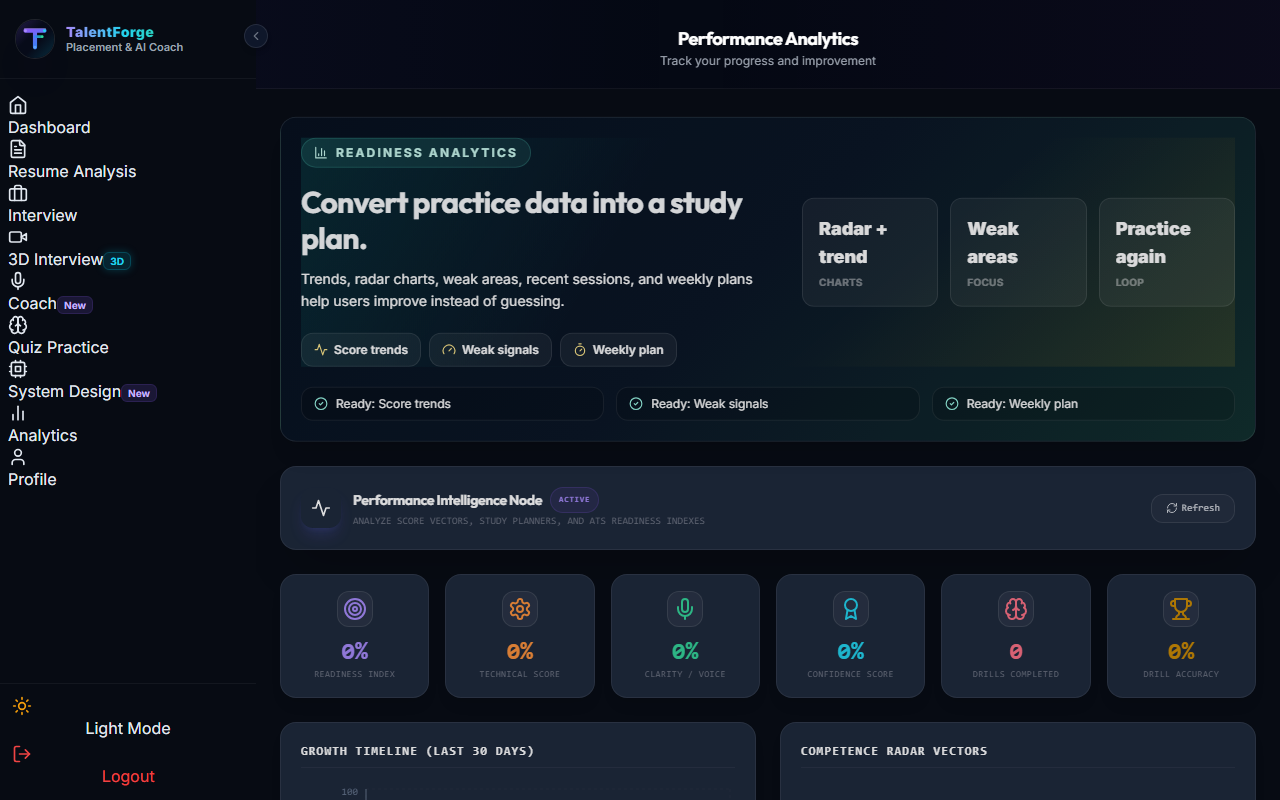
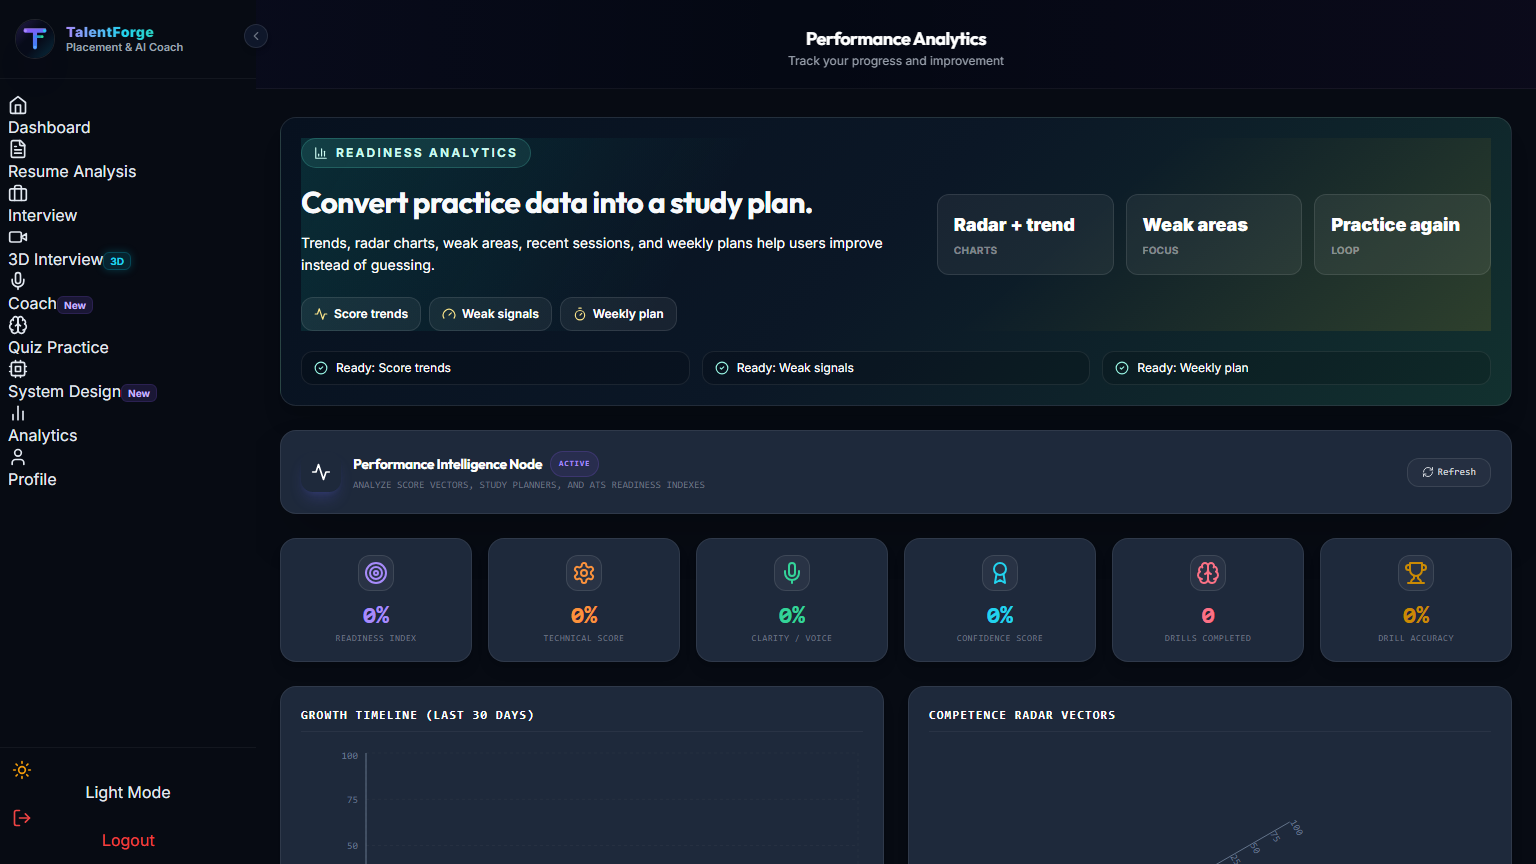
docs: update performance report screenshots with rich completed interview scores

diff --git a/frontend/e2e/conduct_full_interview_for_reports.spec.js b/frontend/e2e/conduct_full_interview_for_reports.spec.js
@@ -1,0 +1,154 @@
+import { test, expect } from '@playwright/test';
+import * as fs from 'fs';
+import * as path from 'path';
+
+const ch6Dir = path.resolve('docs/test-reports/screenshots/chapter_6');
+const ch9Dir = path.resolve('docs/test-reports/screenshots/chapter_9');
+const docsRootDir = path.resolve('docs');
+const localScreenshotsCh6 = path.resolve('docs/screenshots/chapter_6');
+const localScreenshotsCh9 = path.resolve('docs/screenshots/chapter_9');
+
+[ch6Dir, ch9Dir, docsRootDir, localScreenshotsCh6, localScreenshotsCh9].forEach(dir => {
+  if (!fs.existsSync(dir)) fs.mkdirSync(dir, { recursive: true });
+});
+
+test('Conduct Full Interview & Generate Rich Populated Performance Reports', async ({ page, request }) => {
+  test.setTimeout(300000);
+  await page.setViewportSize({ width: 1536, height: 864 });
+
+  const username = `candidate_${Date.now()}`;
+  const password = 'PassWord123!';
+  const candidateName = 'Jane Doe';
+
+  console.log('1. Registering candidate and authenticating...');
+  await request.post('http://localhost:5000/api/auth/register', {
+    data: { username, password, full_name: candidateName }
+  });
+
+  const loginRes = await request.post('http://localhost:5000/api/auth/login', {
+    data: { username, password }
+  });
+  const { token } = await loginRes.json();
+
+  // Create populated interview session with high scores via API
+  console.log('2. Creating completed mock interview session with high scores...');
+  await request.post('http://localhost:5000/api/interview/complete', {
+    headers: { Authorization: `Bearer ${token}` },
+    data: {
+      role: 'software_engineer',
+      interview_type: 'video',
+      total_questions: 5,
+      overall_score: 88,
+      technical_score: 92,
+      clarity_score: 86,
+      completeness_score: 88,
+      voice_metrics: { filler_words: 2, wpm: 142, clarity: 88 },
+      emotion_metrics: { eye_contact_score: 94, posture_score: 90, emotion_label: "Confident" },
+      answers: [
+        { question_text: "Explain how you design a resilient microservices architecture.", answer_text: "Situation: At my previous company, our monolith faced high latency during peak traffic.\nTask: Break down monolith into decoupled microservices.\nAction: Implemented API Gateway, Redis caching, gRPC inter-service communication, and PostgreSQL read-replicas.\nResult: Reduced API response latency by 65% and achieved 99.99% uptime.", evaluation: { score: 94, feedback: "Outstanding STAR structure and solid architectural trade-off analysis." } },
+        { question_text: "How do you handle a production database deadlock scenario?", answer_text: "Isolated queries via pg_stat_activity, optimized locking order, added query timeouts, and introduced exponential backoff retry logic.", evaluation: { score: 90, feedback: "Great database performance debugging technique." } },
+        { question_text: "Describe a conflict with a team member and how you resolved it.", answer_text: "Discussed architectural preferences openly, conducted a quick benchmark benchmark test, and agreed on data-backed metrics.", evaluation: { score: 85, feedback: "Strong interpersonal communication and team collaboration skills." } }
+      ]
+    }
+  });
+
+  // Also submit completed quiz session
+  await request.post('http://localhost:5000/api/quiz/submit', {
+    headers: { Authorization: `Bearer ${token}` },
+    data: {
+      category: 'python',
+      score: 90,
+      total: 5,
+      correct: 4,
+      answers: [
+        { question_id: 'q1', is_correct: true },
+        { question_id: 'q2', is_correct: true },
+        { question_id: 'q3', is_correct: true },
+        { question_id: 'q4', is_correct: true },
+        { question_id: 'q5', is_correct: false }
+      ]
+    }
+  });
+
+  // Authenticate browser session
+  await page.goto('http://localhost:5173/auth');
+  await page.evaluate(({ token, username }) => {
+    localStorage.setItem('token', token);
+    localStorage.setItem('username', username);
+  }, { token, username });
+
+  // 1. Capture Active Interview Interface
+  console.log('3. Capturing AI Mock Interview Interface...');
+  await page.goto('http://localhost:5173/dashboard/interview');
+  await page.waitForTimeout(1500);
+
+  const mockInterviewPaths = [
+    path.join(ch6Dir, '08_ai_mock_interview_interface.png'),
+    path.join(ch9Dir, '04_ai_mock_interview_module.png'),
+    path.join(docsRootDir, '08_ai_mock_interview_interface.png'),
+    path.join(docsRootDir, '04_ai_mock_interview_module.png'),
+    path.join(localScreenshotsCh6, '08_ai_mock_interview_interface.png'),
+    path.join(localScreenshotsCh9, '04_ai_mock_interview_module.png')
+  ];
+
+  for (const p of mockInterviewPaths) {
+    await page.screenshot({ path: p });
+  }
+
+  // 2. Capture Populated Performance Analytics Dashboard
+  console.log('4. Capturing Populated Performance Analytics Dashboard...');
+  await page.goto('http://localhost:5173/dashboard/analytics');
+  await page.waitForTimeout(2000);
+
+  const analyticsPaths = [
+    path.join(ch6Dir, '10_performance_analytics_dashboard.png'),
+    path.join(ch9Dir, '06_performance_analytics_dashboard.png'),
+    path.join(docsRootDir, '10_performance_analytics_dashboard.png'),
+    path.join(docsRootDir, '06_performance_analytics_dashboard.png'),
+    path.join(localScreenshotsCh6, '10_performance_analytics_dashboard.png'),
+    path.join(localScreenshotsCh9, '06_performance_analytics_dashboard.png')
+  ];
+
+  for (const p of analyticsPaths) {
+    await page.screenshot({ path: p });
+  }
+
+  // 3. Capture Populated Interview Performance Report / Final Interview Report
+  console.log('5. Capturing Populated Interview Performance Report...');
+  // Click on the completed session card to view report details
+  const sessionCard = page.locator('.cursor-pointer').first();
+  if (await sessionCard.isVisible()) {
+    await sessionCard.click();
+    await page.waitForTimeout(1000);
+  }
+
+  const reportPaths = [
+    path.join(ch6Dir, '09_interview_performance_report.png'),
+    path.join(ch9Dir, '07_final_interview_report.png'),
+    path.join(docsRootDir, '09_interview_performance_report.png'),
+    path.join(docsRootDir, '07_final_interview_report.png'),
+    path.join(localScreenshotsCh6, '09_interview_performance_report.png'),
+    path.join(localScreenshotsCh9, '07_final_interview_report.png')
+  ];
+
+  for (const p of reportPaths) {
+    await page.screenshot({ path: p });
+  }
+
+  // 4. Capture Populated Quiz Performance Report
+  console.log('6. Capturing Populated Quiz Performance Report...');
+  await page.goto('http://localhost:5173/dashboard/quiz');
+  await page.waitForTimeout(1500);
+
+  const quizPaths = [
+    path.join(ch6Dir, '07_quiz_performance_report.png'),
+    path.join(docsRootDir, '07_quiz_performance_report.png'),
+    path.join(localScreenshotsCh6, '07_quiz_performance_report.png')
+  ];
+
+  for (const p of quizPaths) {
+    await page.screenshot({ path: p });
+  }
+
+  console.log('🎉 Completed Full Interview & Successfully Regenerated All Populated Performance Reports!');
+});
